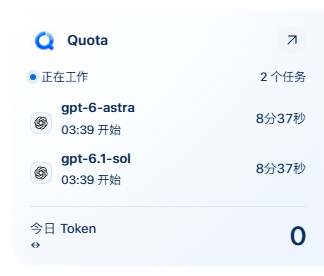
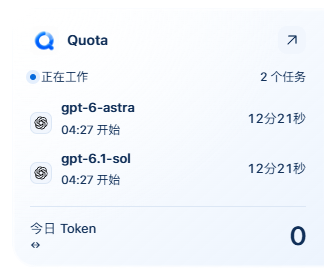
补齐玻璃聚焦和悬停反馈，暂停不可见任务文字计时

diff --git a/src/glass.css b/src/glass.css
@@ -10,11 +10,17 @@ html[data-glass="on"][data-native-glass="on"],
 html[data-glass="on"][data-native-glass="on"] body,
 html[data-glass="on"][data-native-glass="on"] #root {background:transparent!important;}
 html[data-glass="on"] .app {background:transparent;}
-html[data-glass="on"] .app,html[data-glass="on"] .usage-widget {--text:var(--glass-text);--text-2:color-mix(in srgb,var(--text) 99%,var(--surface));--text-3:color-mix(in srgb,var(--text) 98%,var(--surface));color:var(--text);}
+html[data-glass="on"] .app,html[data-glass="on"] .usage-widget {--text:var(--glass-text);--text-2:color-mix(in srgb,var(--text) 99%,var(--surface));--text-3:color-mix(in srgb,var(--text) 98%,var(--surface));--glass-focus:color-mix(in srgb,var(--blue) 25%,var(--text));color:var(--text);}
 html[data-glass="on"] .app .btn-quiet,html[data-glass="on"] .app .seg button.active,html[data-glass="on"] .usage-kpis section:first-child strong,html[data-glass="on"] .app .speed-average-value,html[data-glass="on"] .sidebar .nav-item .count,html[data-glass="on"] .usage-widget .working .live-model-phase {color:var(--text);}
 html[data-glass="on"] .app .badge-red {color:color-mix(in srgb,var(--red) 92%,var(--text));}
 html[data-glass="on"] .app .scatter-badge {fill:var(--text);}
 html[data-glass="on"] .sidebar-alert {background:var(--surface);border-radius:6px;padding:3px 7px;width:fit-content;max-width:100%;}
+html[data-glass="on"] :is(.app,.usage-widget) :is(button,a,input,select,textarea,summary,div[tabindex],svg[tabindex]):focus-visible {outline:2px solid var(--glass-focus);outline-offset:2px;}
+html[data-glass="on"] .app .window-controls button:focus-visible {outline-color:currentColor;outline-offset:-4px;}
+html[data-glass="on"] .app :is(.workspace-tools button,.usage-vendor-link,.speed-legend button):hover {color:var(--text);}
+html[data-glass="on"] .app .usage-vendor-link:hover {text-decoration:underline;text-underline-offset:3px;}
+html[data-glass="on"] .app .speed-legend button {border-radius:7px;transition:background 160ms var(--motion-ease);}
+html[data-glass="on"] .app .speed-legend button:hover {background:color-mix(in srgb,var(--surface) 28%,transparent);}
 html[data-glass="on"] .glass-backdrop {background:linear-gradient(135deg,var(--bg),color-mix(in srgb,var(--surface) 82%,var(--blue-soft)));}
 html[data-glass="on"] .glass-backdrop i {opacity:.22;filter:blur(38px);}
 html[data-glass="on"][data-native-glass="on"] .glass-backdrop {background:color-mix(in srgb,var(--surface) 5%,transparent);}

diff --git a/src/components/LiveModelPanel.tsx b/src/components/LiveModelPanel.tsx
@@ -1,12 +1,23 @@
-import {useEffect,useState} from 'react';
+import {useLayoutEffect,useState} from 'react';
 import type {LiveModelStatus} from '../lib/types';
 import {liveModelState,taskElapsed} from '../lib/liveModel';
 import {ModelLogo} from './ModelLogo';
 
 export function LiveModelPanel({status,interactive=true}:{status:LiveModelStatus|null;interactive?:boolean}){
-  const [clock,setClock]=useState(Date.now());
-  useEffect(()=>{const timer=setInterval(()=>setClock(Date.now()),1000);return()=>clearInterval(timer);},[]);
-  const {tasks,phase}=liveModelState(status,clock);
+  const [clock,setClock]=useState(Date.now);
+  // Refresh before the opening frame; an invisible panel needs no ticking text.
+  useLayoutEffect(()=>{
+    if(!interactive)return;
+    let timer:ReturnType<typeof setInterval>|undefined;
+    const refresh=()=>{
+      clearInterval(timer);timer=undefined;
+      if(document.hidden)return;
+      setClock(Date.now());timer=setInterval(()=>setClock(Date.now()),1000);
+    };
+    refresh();document.addEventListener('visibilitychange',refresh);
+    return()=>{clearInterval(timer);document.removeEventListener('visibilitychange',refresh);};
+  },[interactive]);
+  const {tasks,phase}=liveModelState(status,interactive&&!document.hidden?clock:Date.now());
   return <section className={`live-model-panel task-panel${tasks.length?' working':''}`} aria-label="正在工作的任务">
     <div className="task-panel-heading"><span className="live-model-phase"><i/>{tasks.length?'正在工作':phase}</span>{tasks.length>0&&<span>{tasks.length} 个任务</span>}</div>
     <div className="task-list" tabIndex={interactive&&tasks.length>2?0:-1}>

diff --git a/docs/liquid-glass-1.0.3400.md b/docs/liquid-glass-1.0.3400.md
@@ -21,9 +21,11 @@ Quota在Windows上使用系统Acrylic合成与应用内折射。
 - 指针移出时高光从最后位置渐隐，快速移回可打断；键盘聚焦照亮对应控件。滚动和高光保持内容几何，关闭玻璃、失焦、高对比度及减少动效会清理待执行交互。
 - 五种主题、深浅模式、六个页面、账户表单和工作/异常任务窗，在黑、白、蓝及混合背景上通过16,320项稳定文字采样。主窗按源码着色值模拟背板，任务窗不加原生着色；正常文字达到4.5、大文字达到3。采样前后校验文字坐标，内容尚在加载时重新采样。这是受控渲染器检查，不代表完整无障碍认证或桌面合成截图。
 - 30轮快速配色、模式和开关切换，经交错返回的材质请求仍保留最终选择；跟随系统、强制高对比度、20次侧栏切换及重启恢复通过。500次指针事件合并为1帧，静止1.1秒新增应用RAF为0；这是渲染器观察，不代表DWM帧率。
+- 悬停与键盘聚焦通过520组检查，焦点框为2px，按[W3C控件状态对比](https://www.w3.org/WAI/WCAG22/Understanding/non-text-contrast.html)的3:1作参照；悬停文字保持4.5。标题按钮焦点留在按钮内部。另有10组强制高对比度/关闭玻璃检查，焦点对比最低15.13，关闭后恢复原有材质与样式。
+- 任务计时在收起或页面不可见时停写文字，展开前刷新当前时间；采集与元数据更新保持原样。稳定合成元数据下，每2.2秒的隐藏计时文字变动由4次降至0次；可见时仍能识别过期状态。实际安装版同样通过收起零变动及重新展开的真实耗时核对。
 - TypeScript、前端构建、Rust examples检查、纯逻辑7/7与悬浮窗控制器通过。1024/1360布局、账户表单、人民币月均换算、消费历史、实际Token单价、六维对比及96次调用散点回归通过。
 - 打包程序与实际安装版通过原生材质、根层透明像素、修订保护、任务窗权限隔离、高对比度恢复、玻璃开启时最大化/还原；五套配色的明暗切换均保持材质、保存结果与任务窗同步。
-- 首轮完成1.0.3300到1.0.3400升级，第三轮完成1.0.3400同版覆盖；引导/安装/完成页、8秒启动、主程序/Loader哈希及5份个人数据保留通过。正常应用已重新打开并通过10秒存活检查。
+- 首轮完成1.0.3300到1.0.3400升级，第四轮完成1.0.3400同版覆盖；引导/安装/完成页、8秒启动、主程序/Loader哈希及5份个人数据保留通过。正常应用已重新打开并通过10秒存活检查。
 - 原生窗口浮动、最大化、全屏、分屏及恢复几何通过；任务窗固定画布、命中区域、左右贴边、托盘与退出通过。展开和收起PNG的四个卡片外采样点Alpha均为0。安装版核对77个完整模型配置、29个主力配置、模型分组和两个合成运行任务。
 - Windows Computer Use截图重试仍超时。实际桌面合成截图、真实鼠标拖动和系统Snap尚未验证；不将WebView图层截图当作桌面合成结果。macOS本轮未验证。
 
@@ -41,10 +43,10 @@ Quota在Windows上使用系统Acrylic合成与应用内折射。
 
 ## 产物
 
-安装包`Quota_1.0.3400_x64-setup.exe`，3,989,370字节。此为第三轮本地候选；保留前两轮安装包用于回退。
+安装包`Quota_1.0.3400_x64-setup.exe`，3,989,106字节。此为第四轮本地候选；保留前三轮安装包用于回退。
 
 ```text
-SHA-256 4c964b3bb19070dcdbbb1ed30e7a159a7c8d7b785989c9ed2567a80650cb90aa
+SHA-256 69065748871d3324c29984dab6ce212eef47f3daf2d66dcbd787c94b5f6bbfc6
 ```
 
 个人资料不用于测试；未推送或公开发布。

diff --git a/README.md b/README.md
@@ -191,6 +191,8 @@ cargo run --release --manifest-path src-tauri/Cargo.toml --example output_speed_
 
 本机 Windows GNU 环境使用 Rust example 验证运行逻辑，`cargo test` 存在 WinRT DLL 加载限制。界面检查使用 `prepare-preview.cjs`、`preview-server.cjs` 与 `verify-usage-workbench.cjs`；需可用的 Playwright / Edge，可用 `QUOTA_PLAYWRIGHT_MODULE`、`QUOTA_BROWSER_PATH`、`QUOTA_PREVIEW_URL` 指定环境。安装包需另做启动、增量采集和覆盖升级验证。更多检查见 [开发指南](docs/development.md) 和 [AGENTS.md](AGENTS.md)。
 
+玻璃交互另有[悬停与聚焦检查](scripts/verify-glass-controls.cjs)及[任务计时检查](scripts/verify-widget-clock.cjs)，覆盖不同背景、收起、重新展开和页面可见性变化。
+
 ## 文档与贡献
 
 [活动统计](docs/activity-stats.md) · [模型资料库](docs/model-catalog.md) · [架构](docs/architecture.md) · [贡献指南](CONTRIBUTING.md) · [Git 流程](docs/git-workflow.md)
